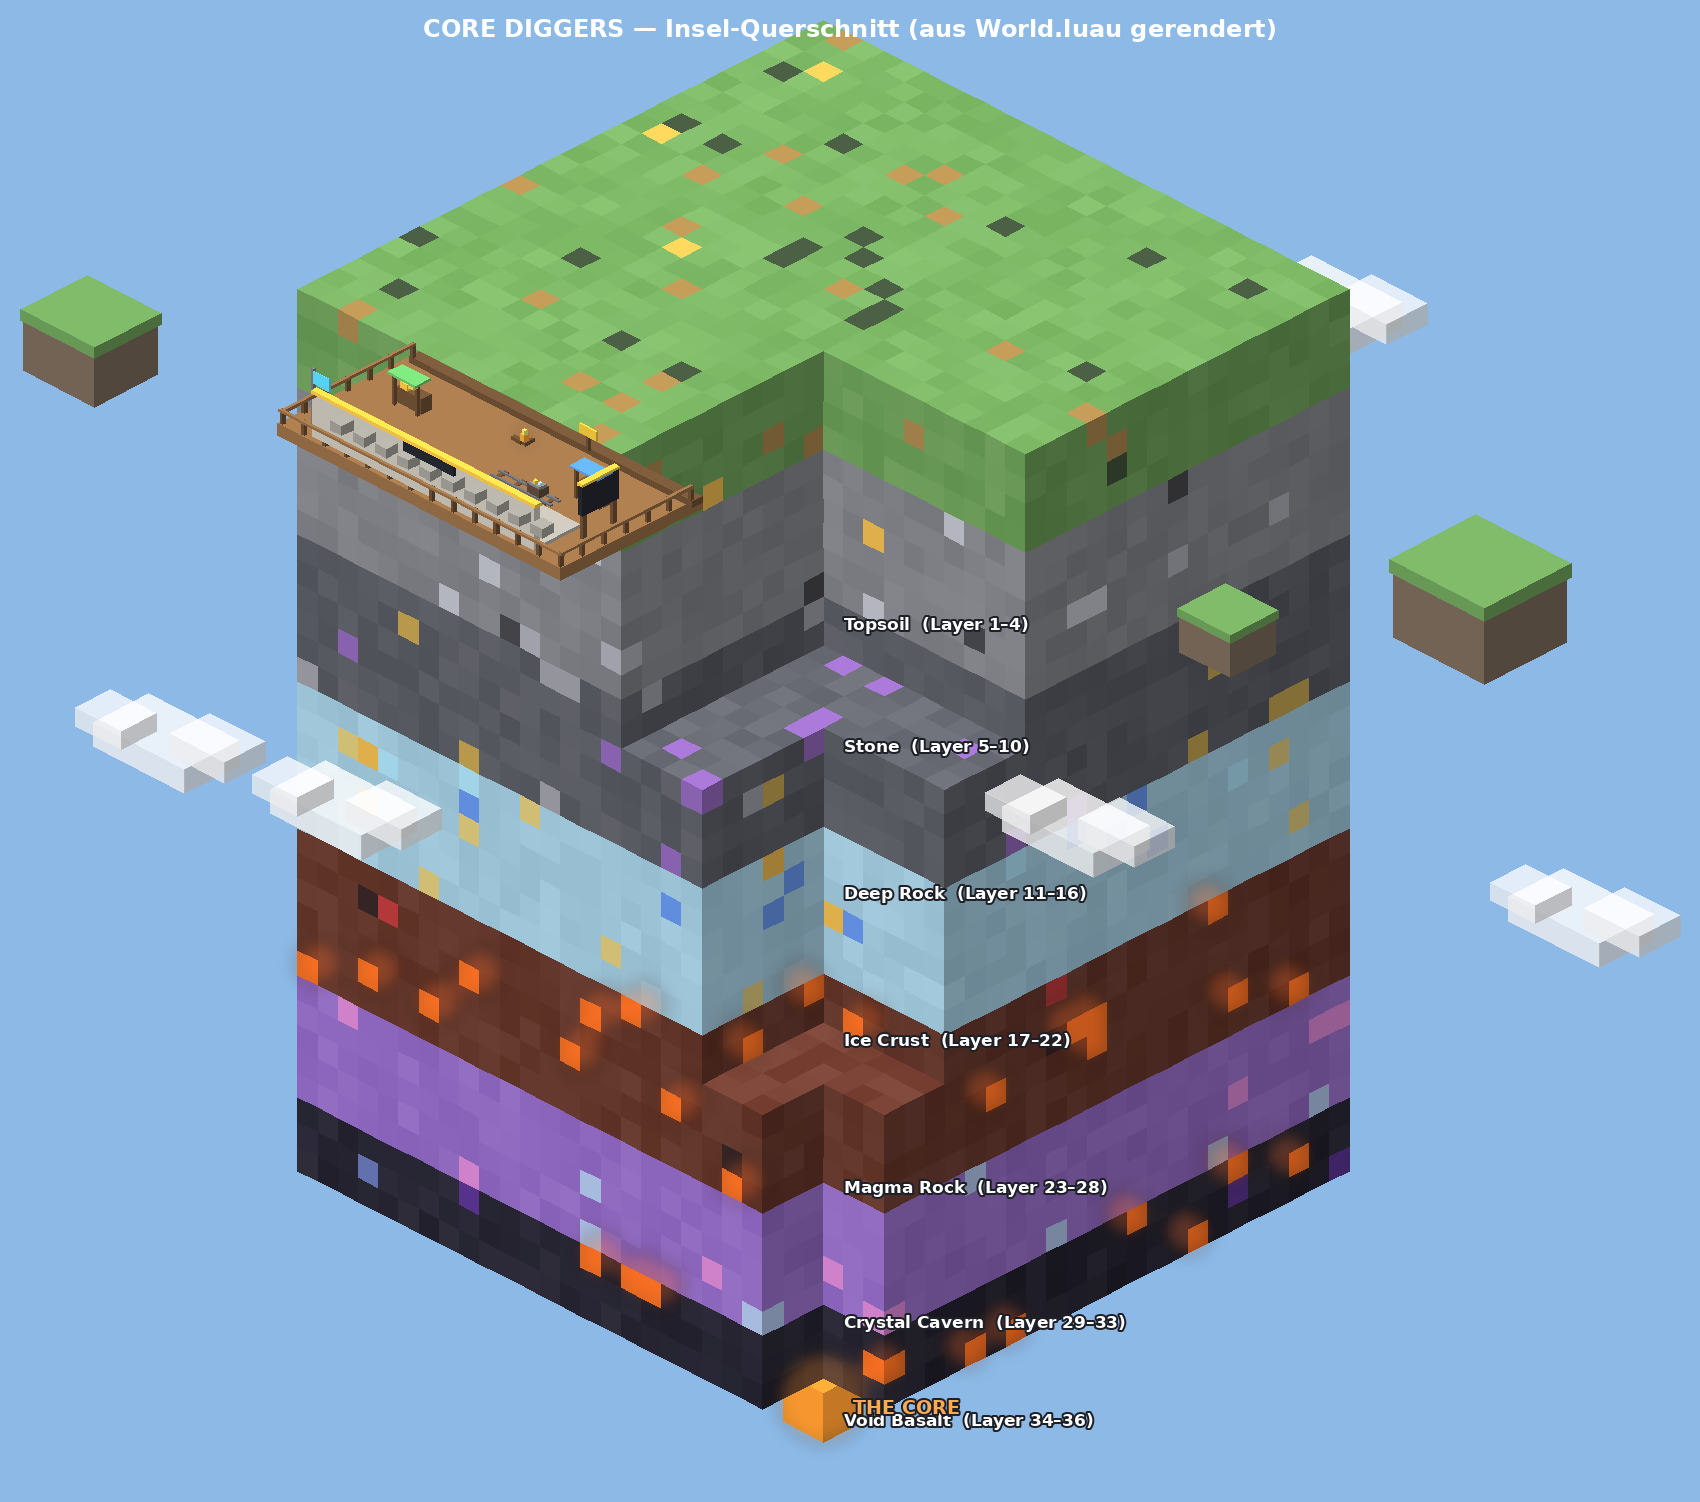
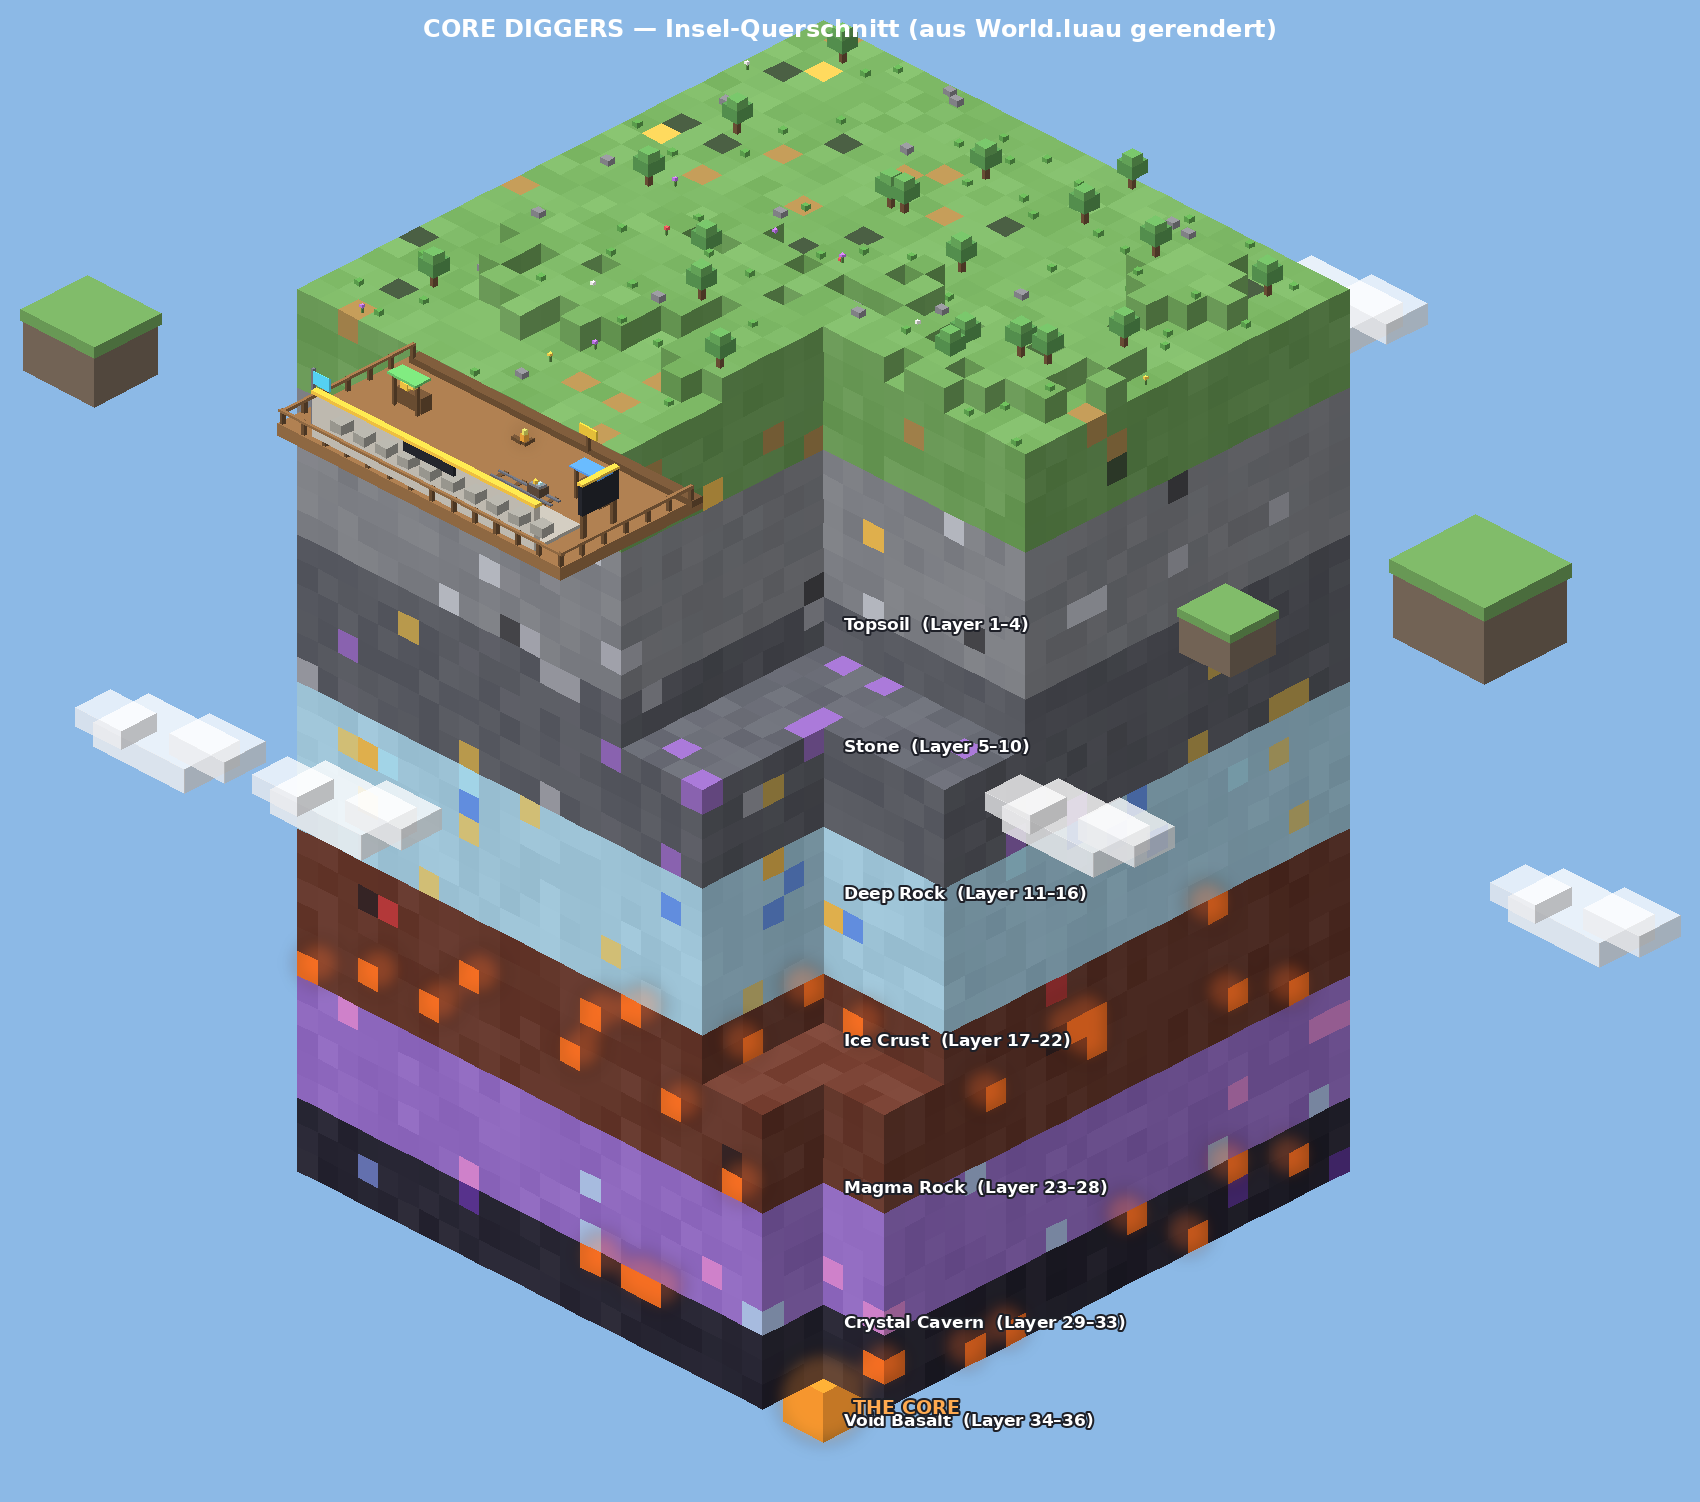
Give the island surface relief and vegetation
The flat top was a technical shortcut (every surface cell must stay
diggable, so static decor would float once its block is mined). Fix:
- Rolling topsoil mounds (extra k=0 blocks in 6-9 clusters), diggable
  like everything else and eligible for vein/treasure rolls
- Surface decoration (grass tufts, flowers, boulders, saplings) is
  parented to its block part, so it is destroyed together with the
  block - nothing ever floats; CanQuery=false keeps clicks hitting
  the block underneath
- Island preview mirrors mounds and decor

diff --git a/core-diggers/tools/render_overview.py b/core-diggers/tools/render_overview.py
@@ -87,6 +87,46 @@ def main():
             spec["c"] = tuple(int(cc * 0.35 + occ * 0.65) for cc, occ in zip(c, oc))
         parts.append(spec)
 
+    # Rolling surface mounds + block decoration (mirrors Terrain.init)
+    mounds = set()
+    for _ in range(8):
+        ci, cj = random.randint(4, sx - 3), random.randint(5, sz - 3)
+        rr = random.randint(2, 4)
+        for di in range(-rr, rr + 1):
+            for dj in range(-rr, rr + 1):
+                if di * di + dj * dj <= rr * rr and random.random() < 0.85:
+                    mounds.add((ci + di, cj + dj))
+    mounds = {(i, j) for (i, j) in mounds
+              if 1 <= i <= sx and 1 <= j <= sz and cut_depth(i, j) == 0}
+    topsoil = layer_at[1]["color"]
+    for (i, j) in mounds:
+        jit = random.randint(-7, 7)
+        col = tuple(max(0, min(255, int(v + jit))) for v in topsoil)
+        parts.append({"s": [bs, bs, bs], "p": list(pos(i, j, 0)), "c": col})
+
+    FLOWERS = [(235, 90, 90), (245, 205, 80), (190, 120, 235), (245, 245, 240)]
+    tops = {(i, j, 1) for (i, j, k) in cells if k == 1 and (i, j) not in mounds}
+    tops |= {(i, j, 0) for (i, j) in mounds}
+    for (i, j, k) in tops:
+        roll = random.random()
+        if roll >= 0.2:
+            continue
+        x, y, z = pos(i, j, k)
+        bx = x + random.uniform(-1.2, 1.2)
+        bz = z + random.uniform(-1.2, 1.2)
+        by = y + bs / 2
+        if roll < 0.10:  # grass tuft
+            parts.append({"s": [0.9, 0.7, 0.9], "p": [bx, by + 0.35, bz], "c": (95, 165, 80)})
+        elif roll < 0.14:  # flower
+            parts.append({"s": [0.18, 0.9, 0.18], "p": [bx, by + 0.45, bz], "c": (90, 140, 70)})
+            parts.append({"s": [0.5, 0.4, 0.5], "p": [bx, by + 1.1, bz], "c": random.choice(FLOWERS)})
+        elif roll < 0.18:  # boulder
+            parts.append({"s": [1.5, 0.9, 1.2], "p": [bx, by + 0.45, bz], "c": (135, 135, 140)})
+        else:  # sapling
+            parts.append({"s": [0.7, 2.8, 0.7], "p": [bx, by + 1.4, bz], "c": (110, 80, 55)})
+            parts.append({"s": [3, 2.2, 3], "p": [bx, by + 3.6, bz], "c": (88, 150, 82)})
+            parts.append({"s": [2, 1.4, 2], "p": [bx, by + 4.9, bz], "c": (104, 170, 92)})
+
     # The core glows at the bottom of the deepest shaft (artistic stand-in for
     # the real one under the island center).
     parts.append({"s": [bs * 2, bs * 2, bs * 2], "p": list(pos(25, 2, depth)), "c": (255, 130, 40), "m": "Neon"})
